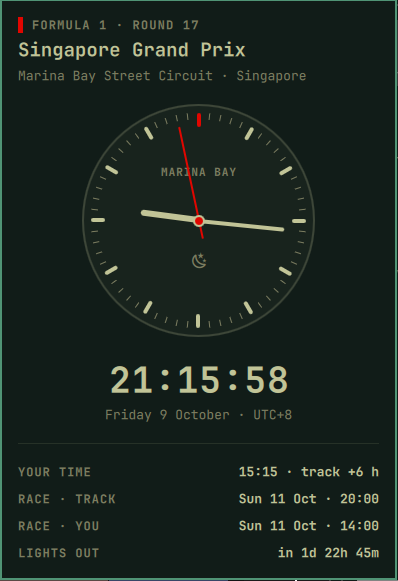
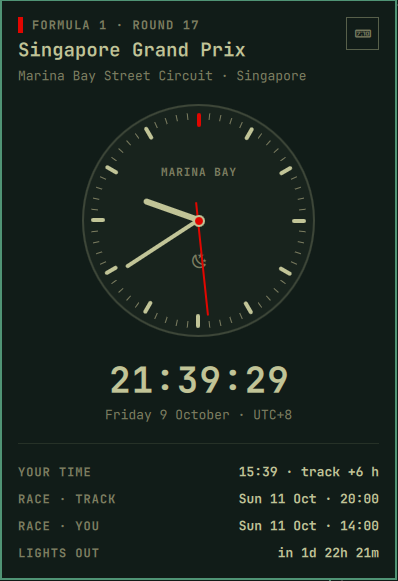
Show analog and digital panels in README

diff --git a/README.md b/README.md
@@ -6,7 +6,10 @@ A checkered flag sits in the bar. Click it for a clock showing the local time
 at the circuit hosting the current or next Grand Prix, along with the race start
 in track time and your time, and a countdown to lights out.
 
-![Paddock Clock panel](assets/panel.png)
+<p>
+  <img src="assets/panel.png" alt="Paddock Clock panel with the analog clock" width="49%">
+  <img src="assets/panel-digital.png" alt="Paddock Clock panel with the digital clock" width="49%" align="top">
+</p>
 
 ## Installation
 
